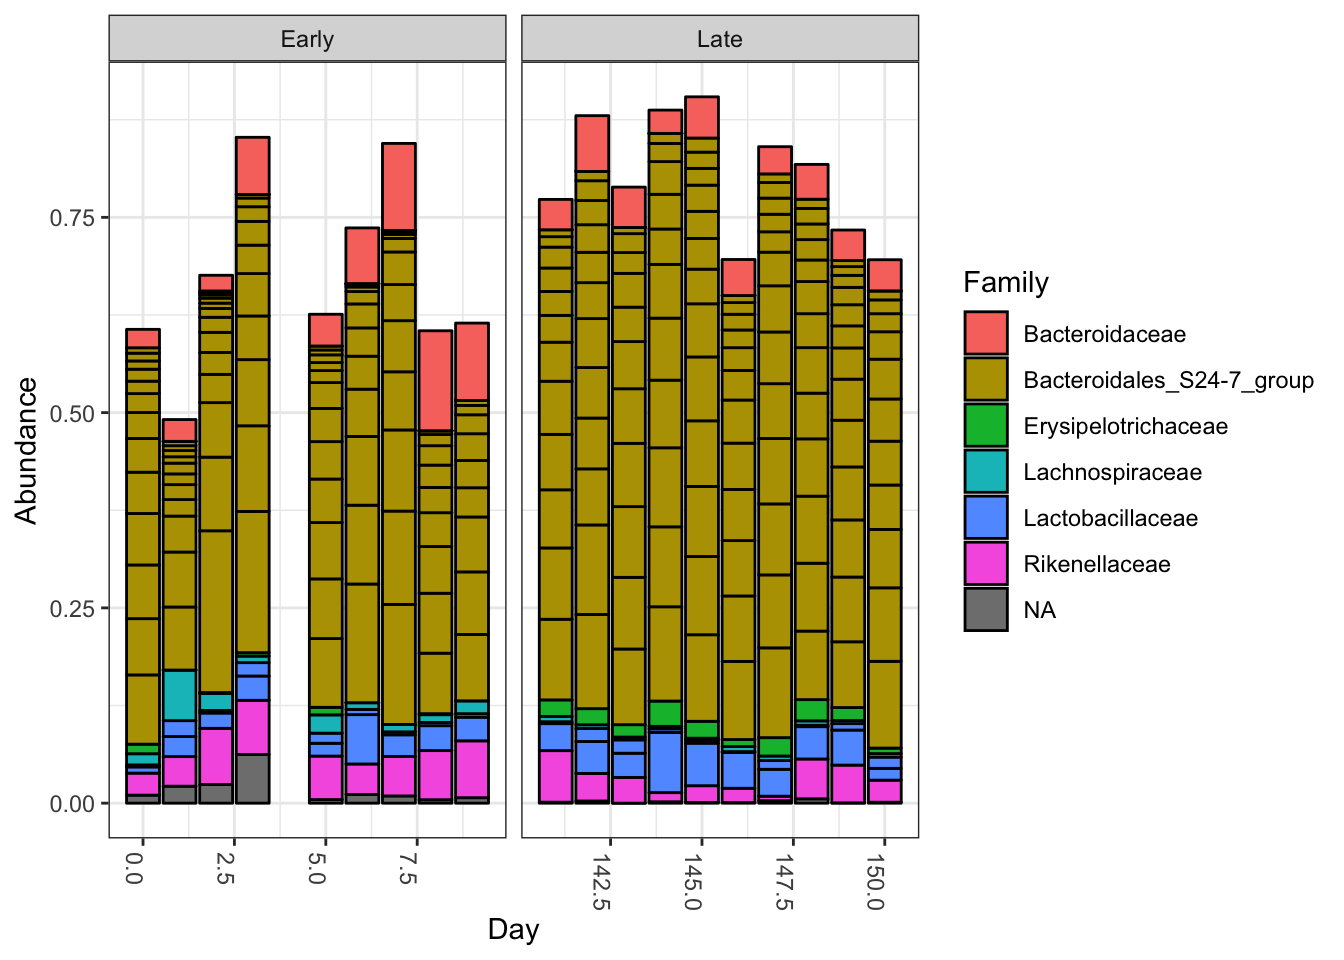
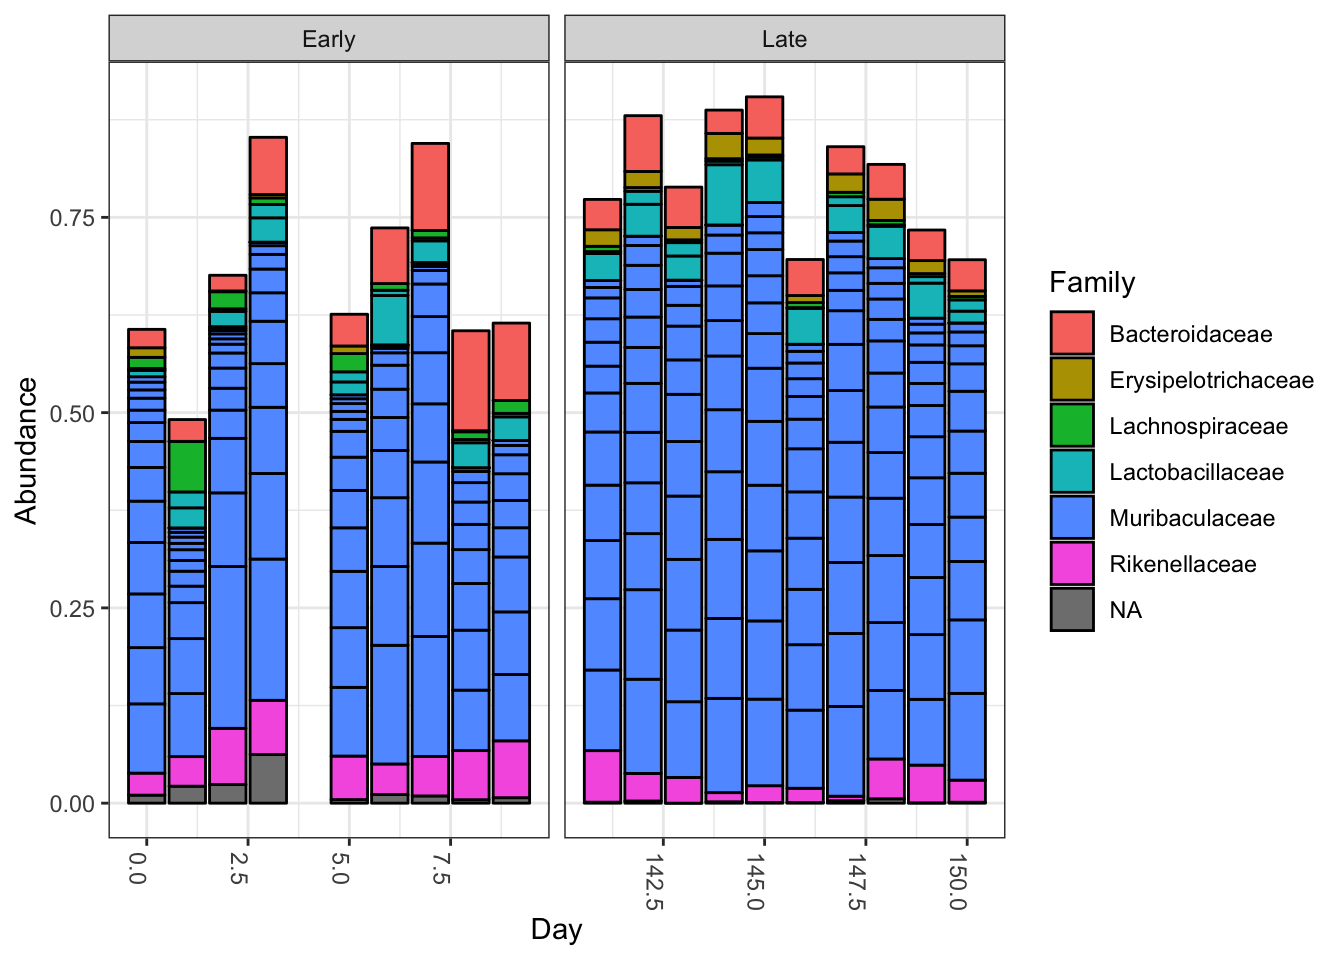
Clean up the 1.12 tutorial
Fixes #738
Fixes #678

diff --git a/tutorial.html b/tutorial.html
@@ -494,7 +494,7 @@ table(nchar(getSequences(seqtab)))</code></pre>
 ##   1  88 196   6   2</code></pre>
 <p>The sequence table is a <code>matrix</code> with rows corresponding to (and named by) the samples, and columns corresponding to (and named by) the sequence variants. This table contains 293 ASVs, and the lengths of our merged sequences all fall within the expected range for this V4 amplicon.</p>
 <div style="border: 1px solid red;padding: 5px;background-color: #fff6f6;">
-<strong><span style="color:red">Considerations for your own data:</span></strong> Sequences that are much longer or shorter than expected may be the result of non-specific priming. You can remove non-target-length sequences from your sequence table (eg. <code>seqtab2 &lt;- seqtab[,nchar(colnames(seqtab)) %in% seq(250,256)]</code>). This is analogous to “cutting a band” in-silico to get amplicons of the targeted length.
+<strong><span style="color:red">Considerations for your own data:</span></strong> Sequences that are much longer or shorter than expected may be the result of non-specific priming. You can remove non-target-length sequences from your sequence table (eg. <code>seqtab2 &lt;- seqtab[,nchar(colnames(seqtab)) %in% 250:256]</code>). This is analogous to “cutting a band” in-silico to get amplicons of the targeted length.
 </div>
 <p> </p>
 </div>
@@ -530,25 +530,21 @@ head(track)</code></pre>
 ## F3D144  4827     4312      4151      4228   3627    3488</code></pre>
 <p>Looks good! We kept the majority of our raw reads, and there is no over-large drop associated with any single step.</p>
 <div style="border: 1px solid red;padding: 5px;background-color: #fff6f6;">
-<strong><span style="color:red">Considerations for your own data:</span></strong> This is a great place to do a last <strong>sanity check</strong>. Outside of filtering (depending on how stringent you want to be) there should no step in which a majority of reads are lost. If a majority of reads failed to merge, you may need to revisit the <code>truncLen</code> parameter used in the filtering step and make sure that the truncated reads span your amplicon. If a majority of reads were removed as chimeric, you may need to revisit the removal of primers, as the ambiguous nucleotides in unremoved primers interfere with chimera identification.
+<strong><span style="color:red">Considerations for your own data:</span></strong> This is a great place to do a last <strong>sanity check</strong>. Outside of filtering, there should no step in which a majority of reads are lost. If a majority of reads failed to merge, you may need to revisit the <code>truncLen</code> parameter used in the filtering step and make sure that the truncated reads span your amplicon. If a majority of reads were removed as chimeric, you may need to revisit the removal of primers, as the ambiguous nucleotides in unremoved primers interfere with chimera identification.
 </div>
 <p> </p>
 </div>
 <div id="assign-taxonomy" class="section level1">
 <h1>Assign taxonomy</h1>
 <p>It is common at this point, especially in 16S/18S/ITS amplicon sequencing, to assign taxonomy to the sequence variants. The DADA2 package provides a native implementation of the <a href="http://www.ncbi.nlm.nih.gov/pubmed/17586664">naive Bayesian classifier method</a> for this purpose. The <code>assignTaxonomy</code> function takes as input a set of sequences to be classified and a training set of reference sequences with known taxonomy, and outputs taxonomic assignments with at least <code>minBoot</code> bootstrap confidence.</p>
-<p>We maintain <a href="training.html">formatted training fastas for the RDP training set, GreenGenes clustered at 97% identity, and the Silva reference database</a>, and additional trainings fastas suitable for protists and certain specific environments have been contributed. For fungal taxonomy, the General Fasta release files from the <a href="https://unite.ut.ee/repository.php">UNITE ITS database</a> can be used as is. To follow along, download the <code>silva_nr_v128_train_set.fa.gz</code> file, and place it in the directory with the fastq files.</p>
-<pre class="r"><code>taxa &lt;- assignTaxonomy(seqtab.nochim, &quot;~/tax/silva_nr_v128_train_set.fa.gz&quot;, multithread=TRUE)</code></pre>
+<p>We maintain <a href="training.html">formatted training fastas for the RDP training set, GreenGenes clustered at 97% identity, and the Silva reference database</a>, and additional trainings fastas suitable for protists and certain specific environments have been contributed. For fungal taxonomy, the General Fasta release files from the <a href="https://unite.ut.ee/repository.php">UNITE ITS database</a> can be used as is. To follow along, download the <code>silva_nr_v132_train_set.fa.gz</code> file, and place it in the directory with the fastq files.</p>
+<pre class="r"><code>taxa &lt;- assignTaxonomy(seqtab.nochim, &quot;~/tax/silva_nr_v132_train_set.fa.gz&quot;, multithread=TRUE)</code></pre>
 <div style="border: 1px solid blue;padding: 5px;background-color: #f0f0ff;margin-top:30px;margin-bottom: 15px;">
-<span style="color:blue"><strong>Extensions:</strong></span> The dada2 package also implements a method to make <a href="assign.html#species-assignment">species level assignments based on <strong>exact matching</strong></a> between ASVs and sequenced reference strains. Recent analysis suggests that <a href="https://academic.oup.com/bioinformatics/advance-article-abstract/doi/10.1093/bioinformatics/bty113/4913809">exact matching (or 100% identity) is the only appropriate way to assign species to 16S gene fragments</a>. Currently, <a href="training.html">species-assignment training fastas are available for the Silva and RDP 16S databases</a>. To follow the optional species addition step, download the <code>silva_species_assignment_v128.fa.gz</code> file, and place it in the directory with the fastq files.
-</div>
-<pre class="r"><code>taxa &lt;- addSpecies(taxa, &quot;~/tax/silva_species_assignment_v128.fa.gz&quot;)</code></pre>
-<div style="border: 1px solid blue;padding: 5px;background-color: #f0f0ff;margin-bottom: 30px;">
-
+<p><span style="color:blue"><strong>Extensions:</strong></span> The dada2 package also implements a method to make <a href="assign.html#species-assignment">species level assignments based on <strong>exact matching</strong></a> between ASVs and sequenced reference strains. Recent analysis suggests that <a href="https://academic.oup.com/bioinformatics/advance-article-abstract/doi/10.1093/bioinformatics/bty113/4913809">exact matching (or 100% identity) is the only appropriate way to assign species to 16S gene fragments</a>. Currently, <a href="training.html">species-assignment training fastas are available for the Silva and RDP 16S databases</a>. To follow the optional species addition step, download the <code>silva_species_assignment_v132.fa.gz</code> file, and place it in the directory with the fastq files.</p>
+<pre class="r"><code>taxa &lt;- addSpecies(taxa, &quot;~/tax/silva_species_assignment_v132.fa.gz&quot;)</code></pre>
 </div>
 <div style="border: 1px solid green;padding: 5px;background-color: #f0fff0;margin-top:30px;margin-bottom: 15px;">
-<span style="color:green"><strong>Alternatives:</strong></span> The recently developed <code>IdTaxa</code> taxonomic classification method is also available via <a href="https://bioconductor.org/packages/release/bioc/html/DECIPHER.html">the DECIPHER Bioconductor package</a>. The paper introducing the IDTAXA algorithm <a href="https://microbiomejournal.biomedcentral.com/articles/10.1186/s40168-018-0521-5">reports classification performance that is better than the long-time standard set by the naive Bayesian classifier</a>. Here we include a code block that allows you to use <code>IdTaxa</code> as a drop-in replacement for <code>assignTaxonomy</code> (and it’s faster as well!). Trained classifiers are available from <a href="http://DECIPHER.codes/Downloads.html" class="uri">http://DECIPHER.codes/Downloads.html</a>. Download the SILVA SSU r132 (modified) file to follow along.
-</div>
+<p><span style="color:green"><strong>Alternatives:</strong></span> The recently developed <code>IdTaxa</code> taxonomic classification method is also available via <a href="https://bioconductor.org/packages/release/bioc/html/DECIPHER.html">the DECIPHER Bioconductor package</a>. The paper introducing the IDTAXA algorithm <a href="https://microbiomejournal.biomedcentral.com/articles/10.1186/s40168-018-0521-5">reports classification performance that is better than the long-time standard set by the naive Bayesian classifier</a>. Here we include a code block that allows you to use <code>IdTaxa</code> as a drop-in replacement for <code>assignTaxonomy</code> (and it’s faster as well!). Trained classifiers are available from <a href="http://DECIPHER.codes/Downloads.html" class="uri">http://DECIPHER.codes/Downloads.html</a>. Download the SILVA SSU r132 (modified) file to follow along.</p>
 <pre class="r"><code>library(DECIPHER); packageVersion(&quot;DECIPHER&quot;)</code></pre>
 <pre><code>## [1] &#39;2.6.0&#39;</code></pre>
 <pre class="r"><code>dna &lt;- DNAStringSet(getSequences(seqtab.nochim)) # Create a DNAStringSet from the ASVs
@@ -563,7 +559,6 @@ taxid &lt;- t(sapply(ids, function(x) {
         taxa
 }))
 colnames(taxid) &lt;- ranks; rownames(taxid) &lt;- getSequences(seqtab.nochim)</code></pre>
-<div style="border: 1px solid green;padding: 5px;background-color: #f0fff0;margin-bottom: 30px;">
 The <code>taxid</code> matrix from <code>IdTaxa</code> is a drop-in replacement for the <code>taxa</code> matrix from <code>assignTaxonomy</code>, simply set <code>taxa &lt;- taxid</code> to carry on using the <code>IdTaxa</code> assignments. Read more about <code>IdTaxa</code> and other useful tools at <a href="http://www2.decipher.codes/">the DECIPHER R package website</a>.
 </div>
 <p>Let’s inspect the taxonomic assignments:</p>
@@ -577,13 +572,13 @@ head(taxa.print)</code></pre>
 ## [4,] &quot;Bacteria&quot; &quot;Bacteroidetes&quot; &quot;Bacteroidia&quot; &quot;Bacteroidales&quot;
 ## [5,] &quot;Bacteria&quot; &quot;Bacteroidetes&quot; &quot;Bacteroidia&quot; &quot;Bacteroidales&quot;
 ## [6,] &quot;Bacteria&quot; &quot;Bacteroidetes&quot; &quot;Bacteroidia&quot; &quot;Bacteroidales&quot;
-##      Family                      Genus         Species       
-## [1,] &quot;Bacteroidales_S24-7_group&quot; NA            NA            
-## [2,] &quot;Bacteroidales_S24-7_group&quot; NA            NA            
-## [3,] &quot;Bacteroidales_S24-7_group&quot; NA            NA            
-## [4,] &quot;Bacteroidales_S24-7_group&quot; NA            NA            
-## [5,] &quot;Bacteroidaceae&quot;            &quot;Bacteroides&quot; &quot;acidifaciens&quot;
-## [6,] &quot;Bacteroidales_S24-7_group&quot; NA            NA</code></pre>
+##      Family           Genus         Species
+## [1,] &quot;Muribaculaceae&quot; NA            NA     
+## [2,] &quot;Muribaculaceae&quot; NA            NA     
+## [3,] &quot;Muribaculaceae&quot; NA            NA     
+## [4,] &quot;Muribaculaceae&quot; NA            NA     
+## [5,] &quot;Bacteroidaceae&quot; &quot;Bacteroides&quot; NA     
+## [6,] &quot;Muribaculaceae&quot; NA            NA</code></pre>
 <p>Unsurprisingly, the Bacteroidetes are well represented among the most abundant taxa in these fecal samples. Few species assignments were made, both because it is often not possible to make unambiguous species assignments from subsegments of the 16S gene, and because there is surprisingly little coverage of the indigenous mouse gut microbiota in reference databases.</p>
 <div style="border: 1px solid red;padding: 5px;background-color: #fff6f6;">
 <strong><span style="color:red">Considerations for your own data:</span></strong> If your reads do not seem to be appropriately assigned, for example lots of your bacterial 16S sequences are being assigned as <code>Eukaryota NA NA NA NA NA</code>, your reads may be in the opposite orientation as the reference database. Tell dada2 to try the reverse-complement orientation with <code>assignTaxonomy(..., tryRC=TRUE)</code> and see if this fixes the assignments. If using DECIPHER for taxonomy, try <code>IdTaxa (..., strand=&quot;both&quot;)</code>.
@@ -645,33 +640,31 @@ ps</code></pre>
 ps.prop &lt;- transform_sample_counts(ps, function(otu) otu/sum(otu))
 ord.nmds.bray &lt;- ordinate(ps.prop, method=&quot;NMDS&quot;, distance=&quot;bray&quot;)</code></pre>
 <pre><code>## Run 0 stress 0.08072627 
-## Run 1 stress 0.09462672 
-## Run 2 stress 0.08995024 
-## Run 3 stress 0.1214513 
-## Run 4 stress 0.08995034 
-## Run 5 stress 0.08053042 
+## Run 1 stress 0.08602577 
+## Run 2 stress 0.08995023 
+## Run 3 stress 0.1214515 
+## Run 4 stress 0.08602584 
+## Run 5 stress 0.08995023 
+## Run 6 stress 0.09462696 
+## Run 7 stress 0.08995033 
+## Run 8 stress 0.08053039 
 ## ... New best solution
-## ... Procrustes: rmse 0.009121481  max resid 0.02985839 
-## Run 6 stress 0.1214508 
-## Run 7 stress 0.1232733 
-## Run 8 stress 0.0807246 
-## ... Procrustes: rmse 0.008624037  max resid 0.02814702 
-## Run 9 stress 0.08053082 
-## ... Procrustes: rmse 0.0004317502  max resid 0.001167003 
+## ... Procrustes: rmse 0.009081884  max resid 0.02974578 
+## Run 9 stress 0.08995024 
+## Run 10 stress 0.1320382 
+## Run 11 stress 0.1214508 
+## Run 12 stress 0.1214508 
+## Run 13 stress 0.08072376 
+## ... Procrustes: rmse 0.008661193  max resid 0.02829186 
+## Run 14 stress 0.1214509 
+## Run 15 stress 0.08995024 
+## Run 16 stress 0.08995023 
+## Run 17 stress 0.08053048 
+## ... Procrustes: rmse 0.0001704875  max resid 0.000480406 
 ## ... Similar to previous best
-## Run 10 stress 0.121451 
-## Run 11 stress 0.08602578 
-## Run 12 stress 0.08072387 
-## ... Procrustes: rmse 0.008723239  max resid 0.02847092 
-## Run 13 stress 0.08602577 
-## Run 14 stress 0.08072233 
-## ... Procrustes: rmse 0.008474099  max resid 0.02769599 
-## Run 15 stress 0.08995042 
-## Run 16 stress 0.121451 
-## Run 17 stress 0.1263813 
-## Run 18 stress 0.1301674 
-## Run 19 stress 0.08995027 
-## Run 20 stress 0.0899504 
+## Run 18 stress 0.08995027 
+## Run 19 stress 0.1320382 
+## Run 20 stress 0.09462673 
 ## *** Solution reached</code></pre>
 <pre class="r"><code>plot_ordination(ps.prop, ord.nmds.bray, color=&quot;When&quot;, title=&quot;Bray NMDS&quot;)</code></pre>
 <p><img src="tutorial_files/figure-html/ordinate-1.png" width="672" /></p>
